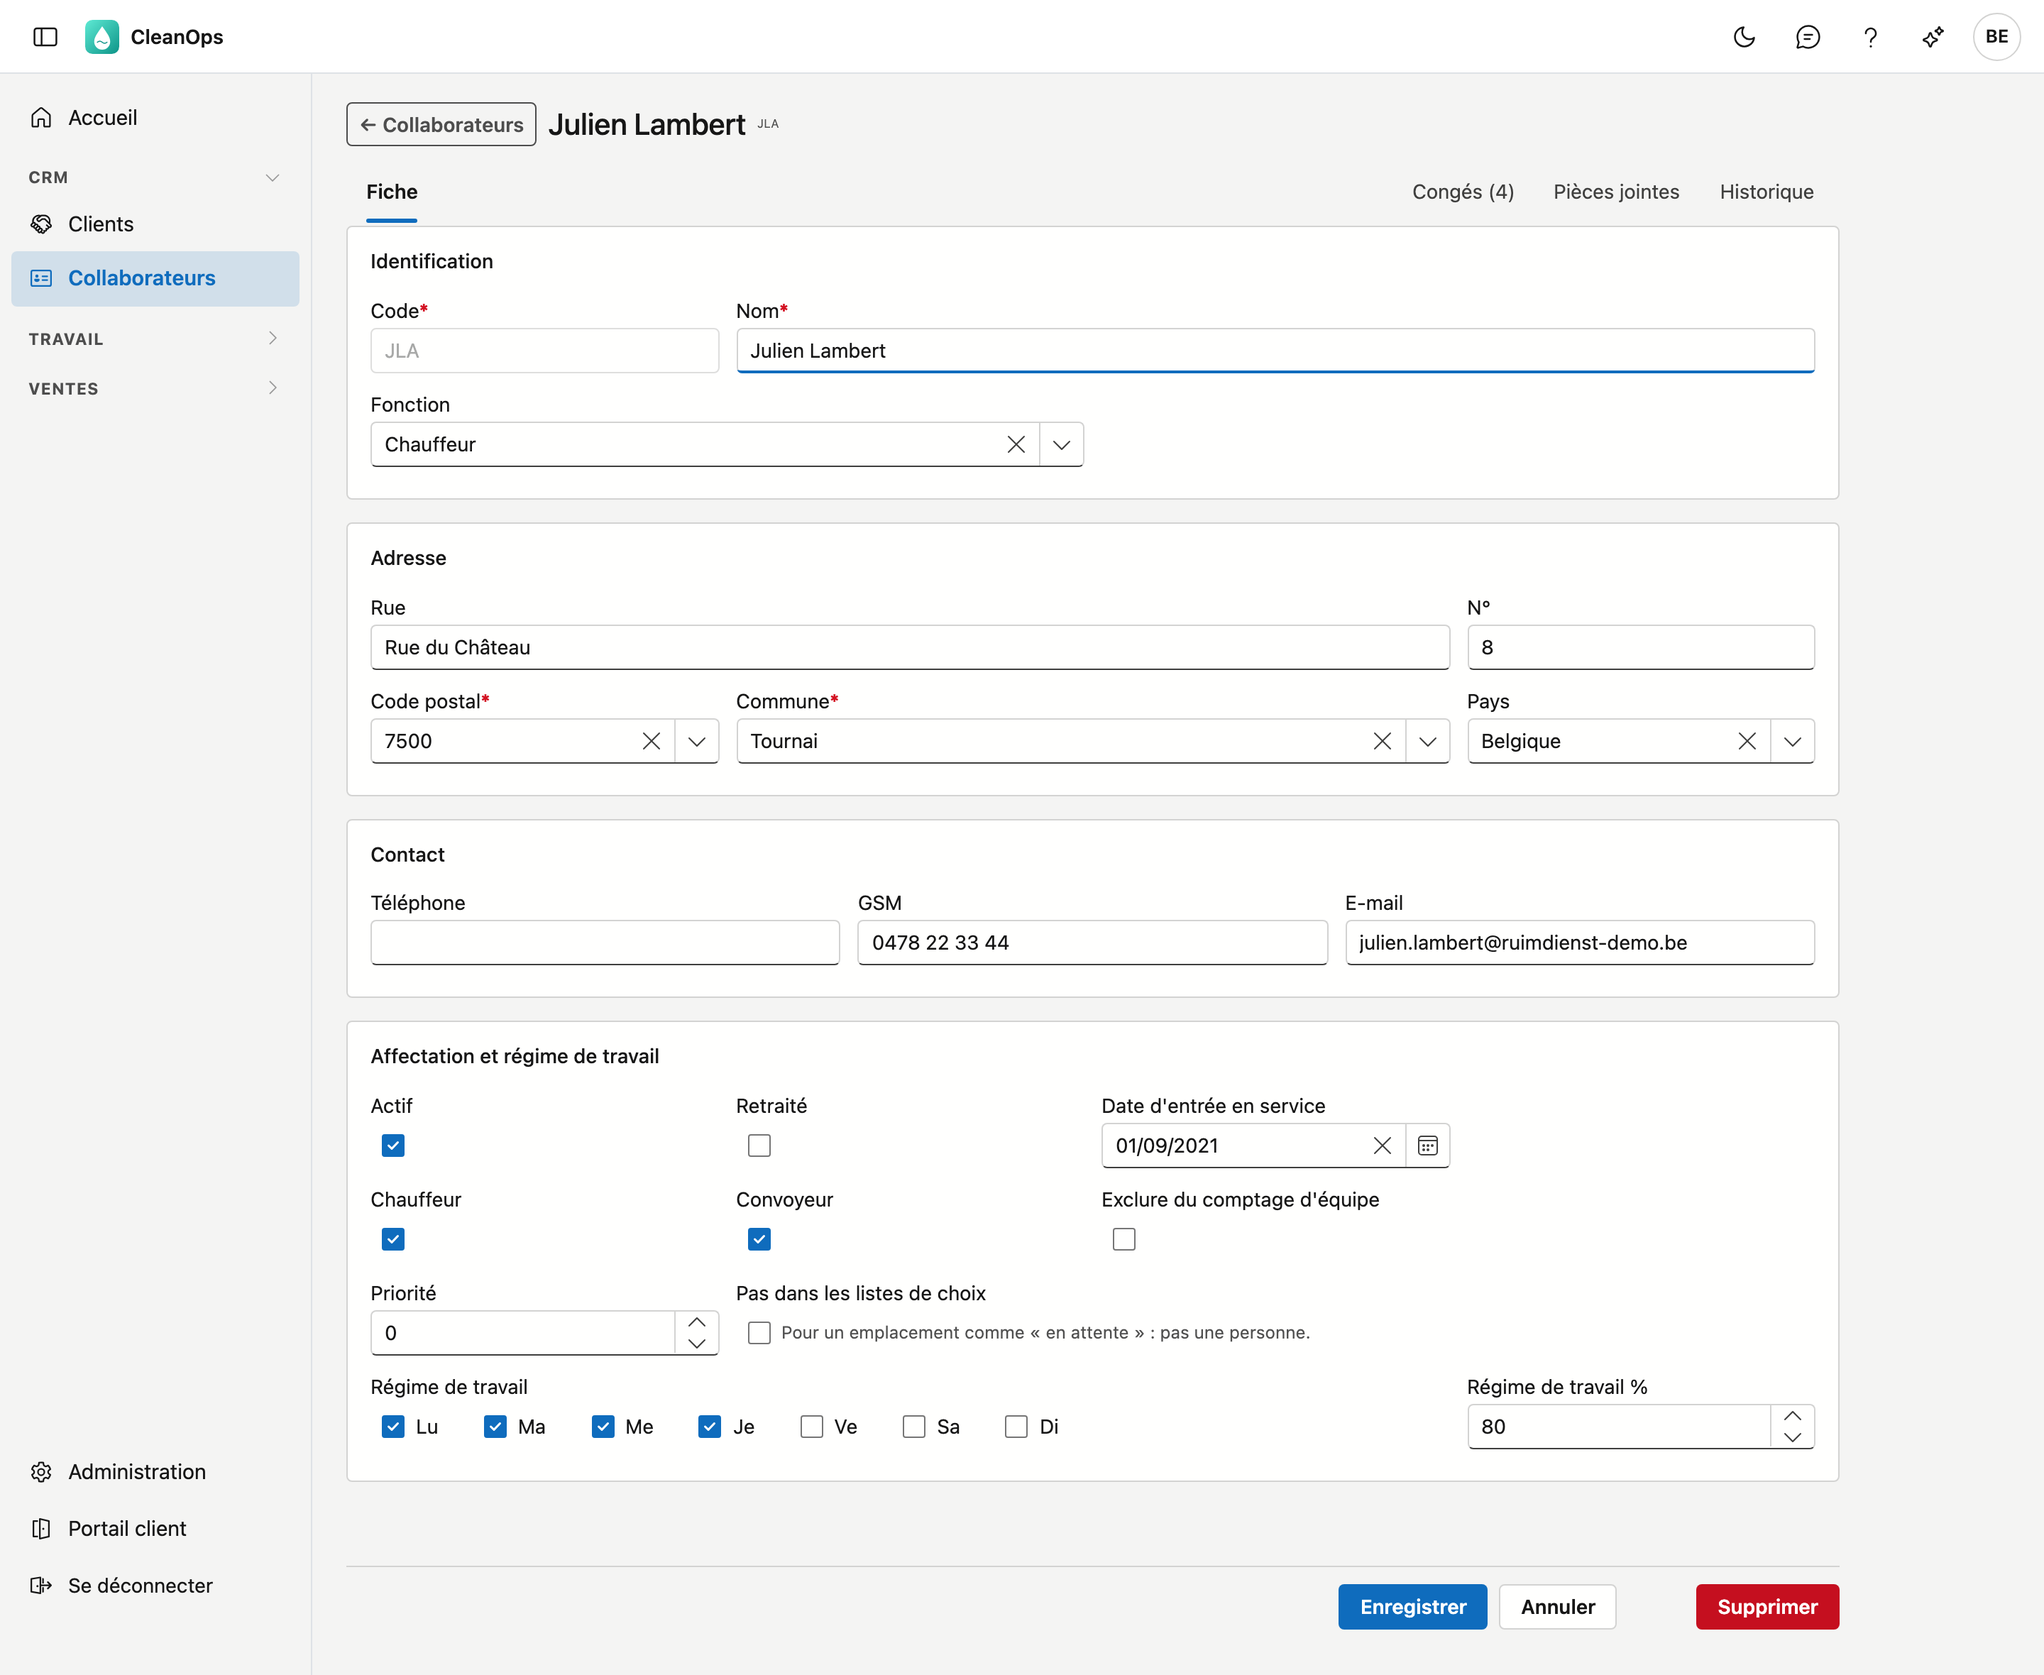
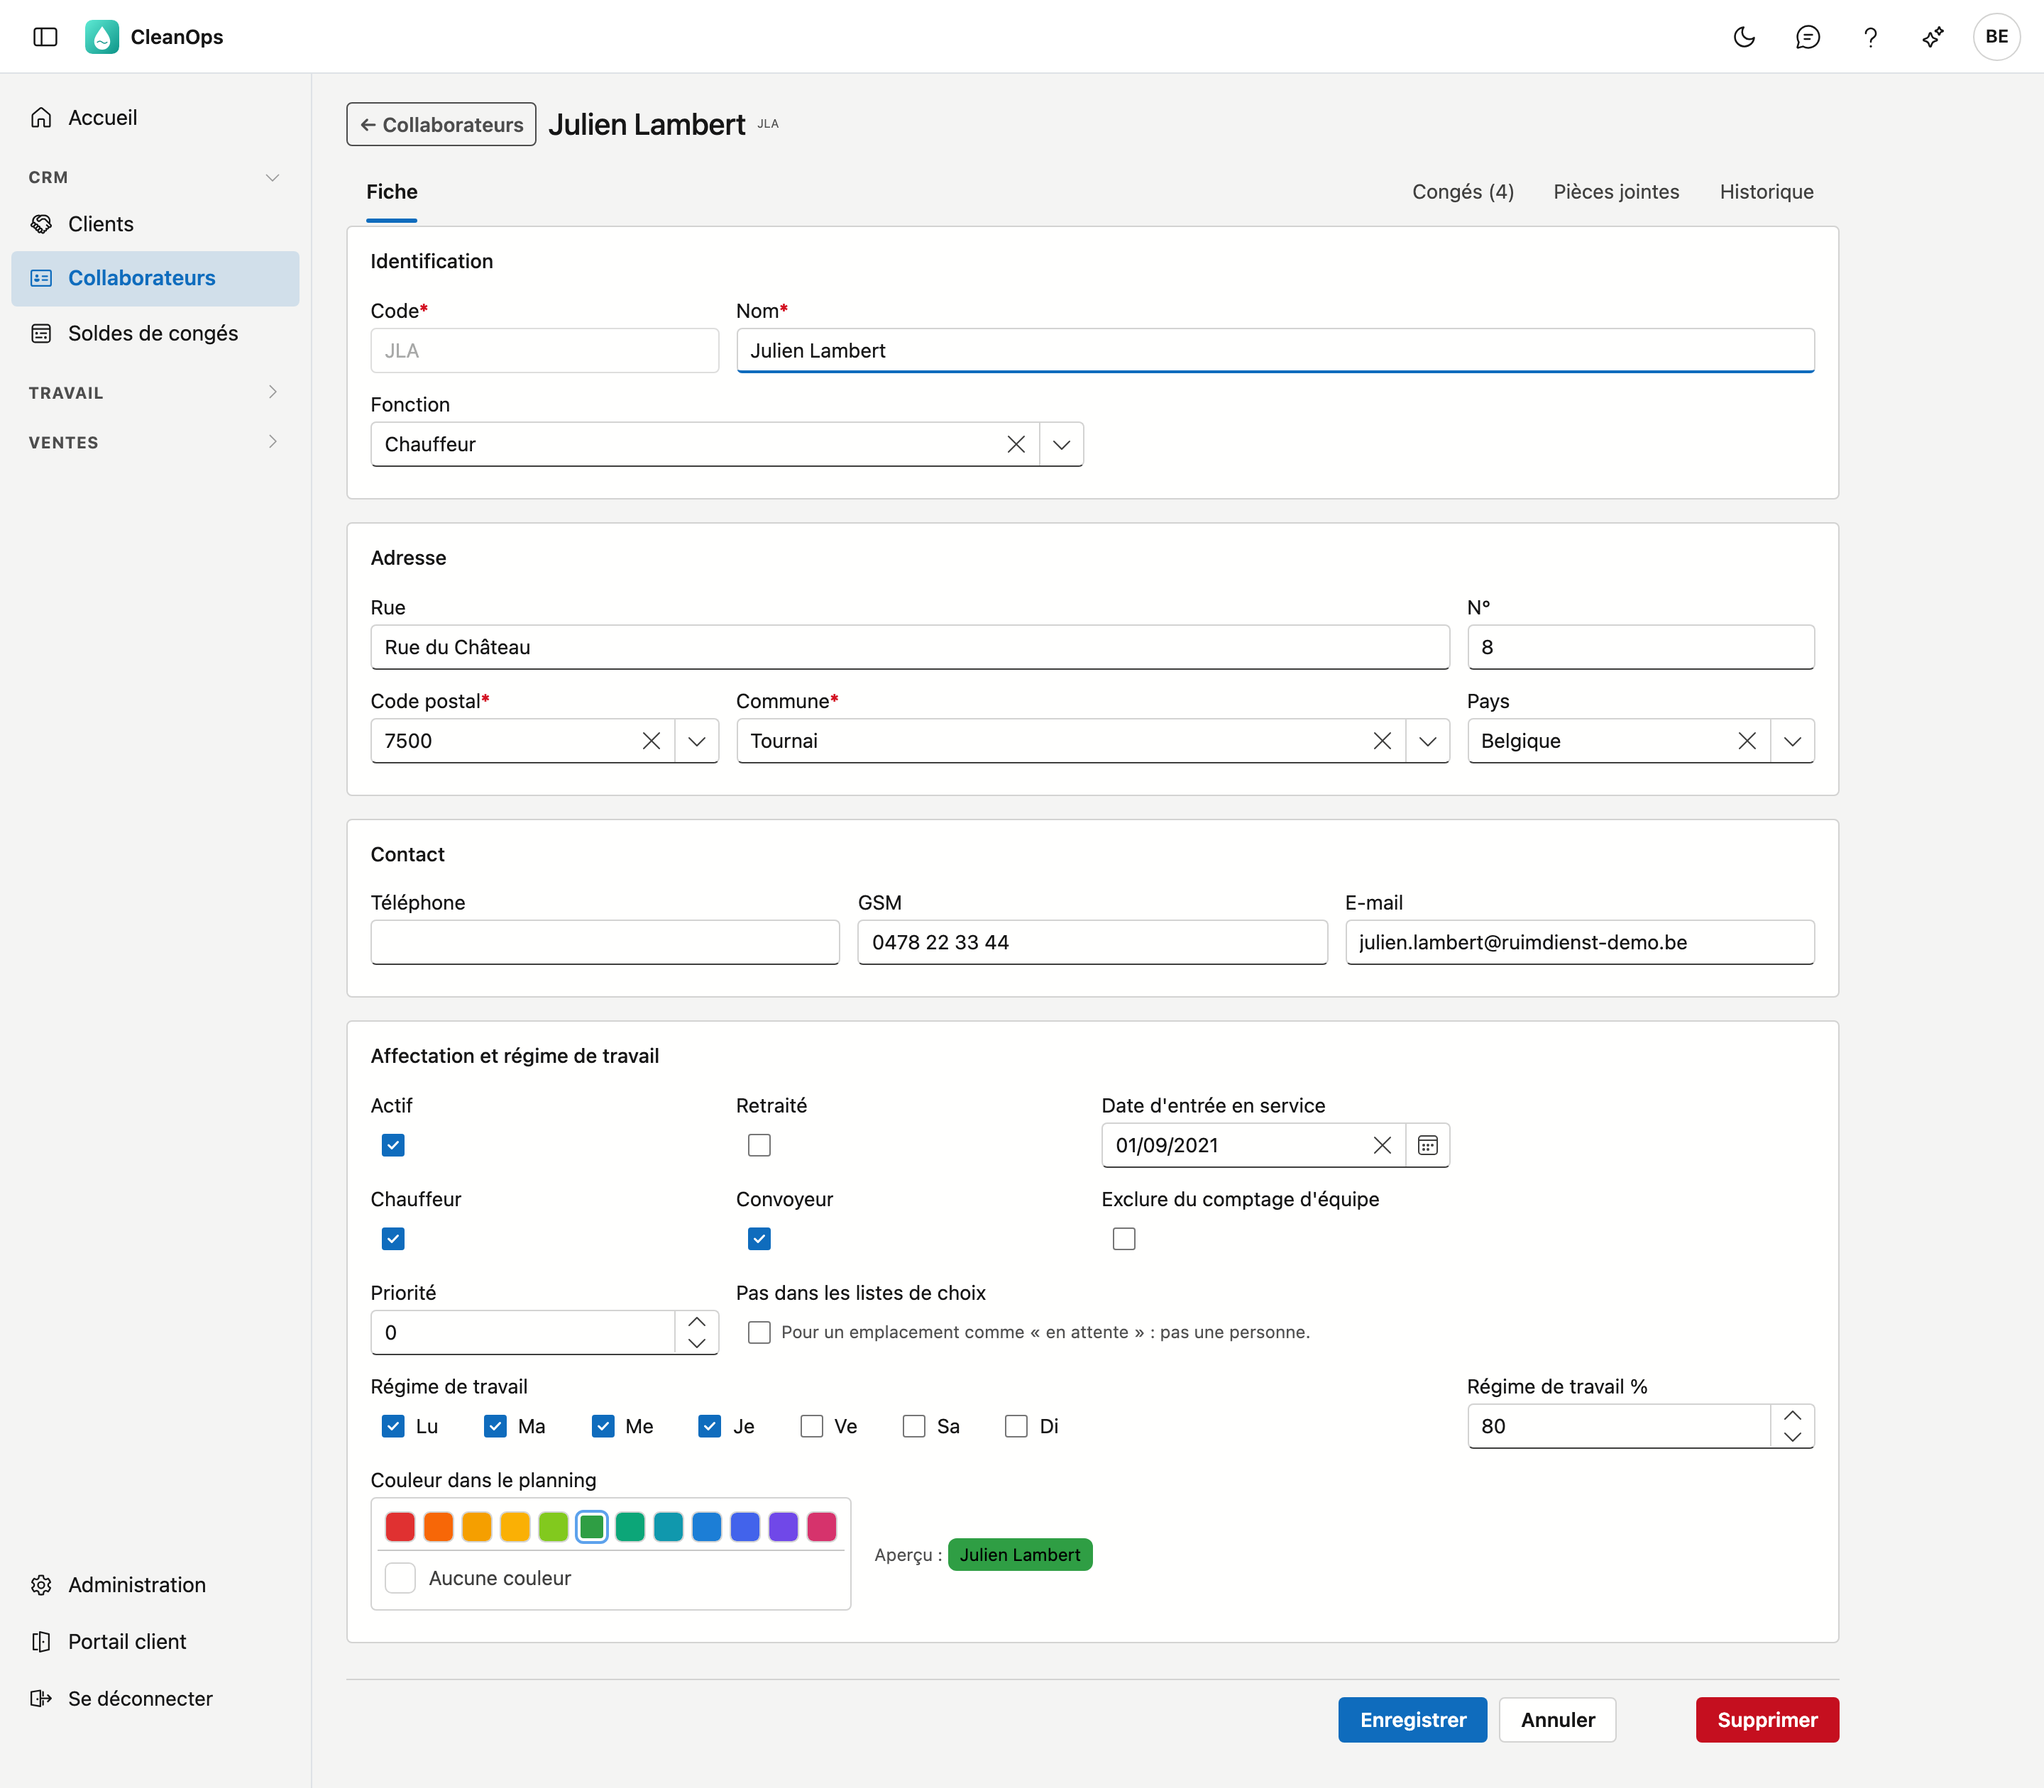
Medewerkers: kleur in de planning op de fiche (NL/FR) + fichebeelden opnieuw
Nieuwe rij in "Inzet en werkregime": het palet, "Geen kleur" en het
voorbeeld. Het recept medewerker-fiche gaat van 1180 naar 1260 px hoog,
want de nieuwe rij viel half onder de knopbalk (gemeten).

diff --git a/docs/medewerkers.fr.md b/docs/medewerkers.fr.md
@@ -75,6 +75,7 @@ est permis.
 | Priorité | Détermine l'ordre : plus elle est élevée, plus la personne figure haut, dans cette liste et partout où vous choisissez un collaborateur. Vos chauffeurs habituels se retrouvent ainsi en tête. |
 | Pas dans les listes de choix | Pour un emplacement comme *En attente* : une ligne du planning qui n'est pas une personne. |
 | Régime de travail | Les jours où la personne travaille, avec à côté le pourcentage d'une semaine à temps plein. Les congés ne comptent que ces jours-là. |
+| Couleur dans le planning | La couleur avec laquelle le planning affiche ce collaborateur : sa ligne sur le tableau de planning et son code dans la liste du planning. Choisissez une couleur dans la palette, ou **Aucune couleur**. L'**Aperçu** à côté montre le nom tel que le planning l'affiche. |
 
 Cliquez sur **Enregistrer** pour sauvegarder. S'il manque un champ obligatoire, CleanOps indique lequel.
 **Annuler** vous ramène à la liste sans enregistrer.

diff --git a/docs/medewerkers.md b/docs/medewerkers.md
@@ -71,6 +71,7 @@ Gemeente de plaatsen van die postcode aan (9800: Deinze, Astene, Vinkt…); u ma
 | Prioriteit | Bepaalt de volgorde: hoger komt bovenaan, in deze lijst en overal waar u een medewerker kiest. Zo staan uw vaste chauffeurs vooraan. |
 | Niet in keuzelijsten | Voor een plaatshouder zoals *Afwachten*: een regel in de planning die geen persoon is. |
 | Werkregime | De dagen waarop de persoon werkt, met daarnaast het percentage van een voltijdse week. Het verlof telt enkel deze dagen. |
+| Kleur in de planning | De kleur waarmee de planning deze medewerker toont: zijn rij op het planbord en zijn code in de planningslijst. Kies een kleur uit het palet, of **Geen kleur**. Het **Voorbeeld** ernaast toont de naam zoals de planning hem toont. |
 
 Klik op **Opslaan** om te bewaren. Ontbreekt er een verplicht veld, dan zegt CleanOps welk. **Annuleren** brengt u
 terug naar de lijst zonder te bewaren.
